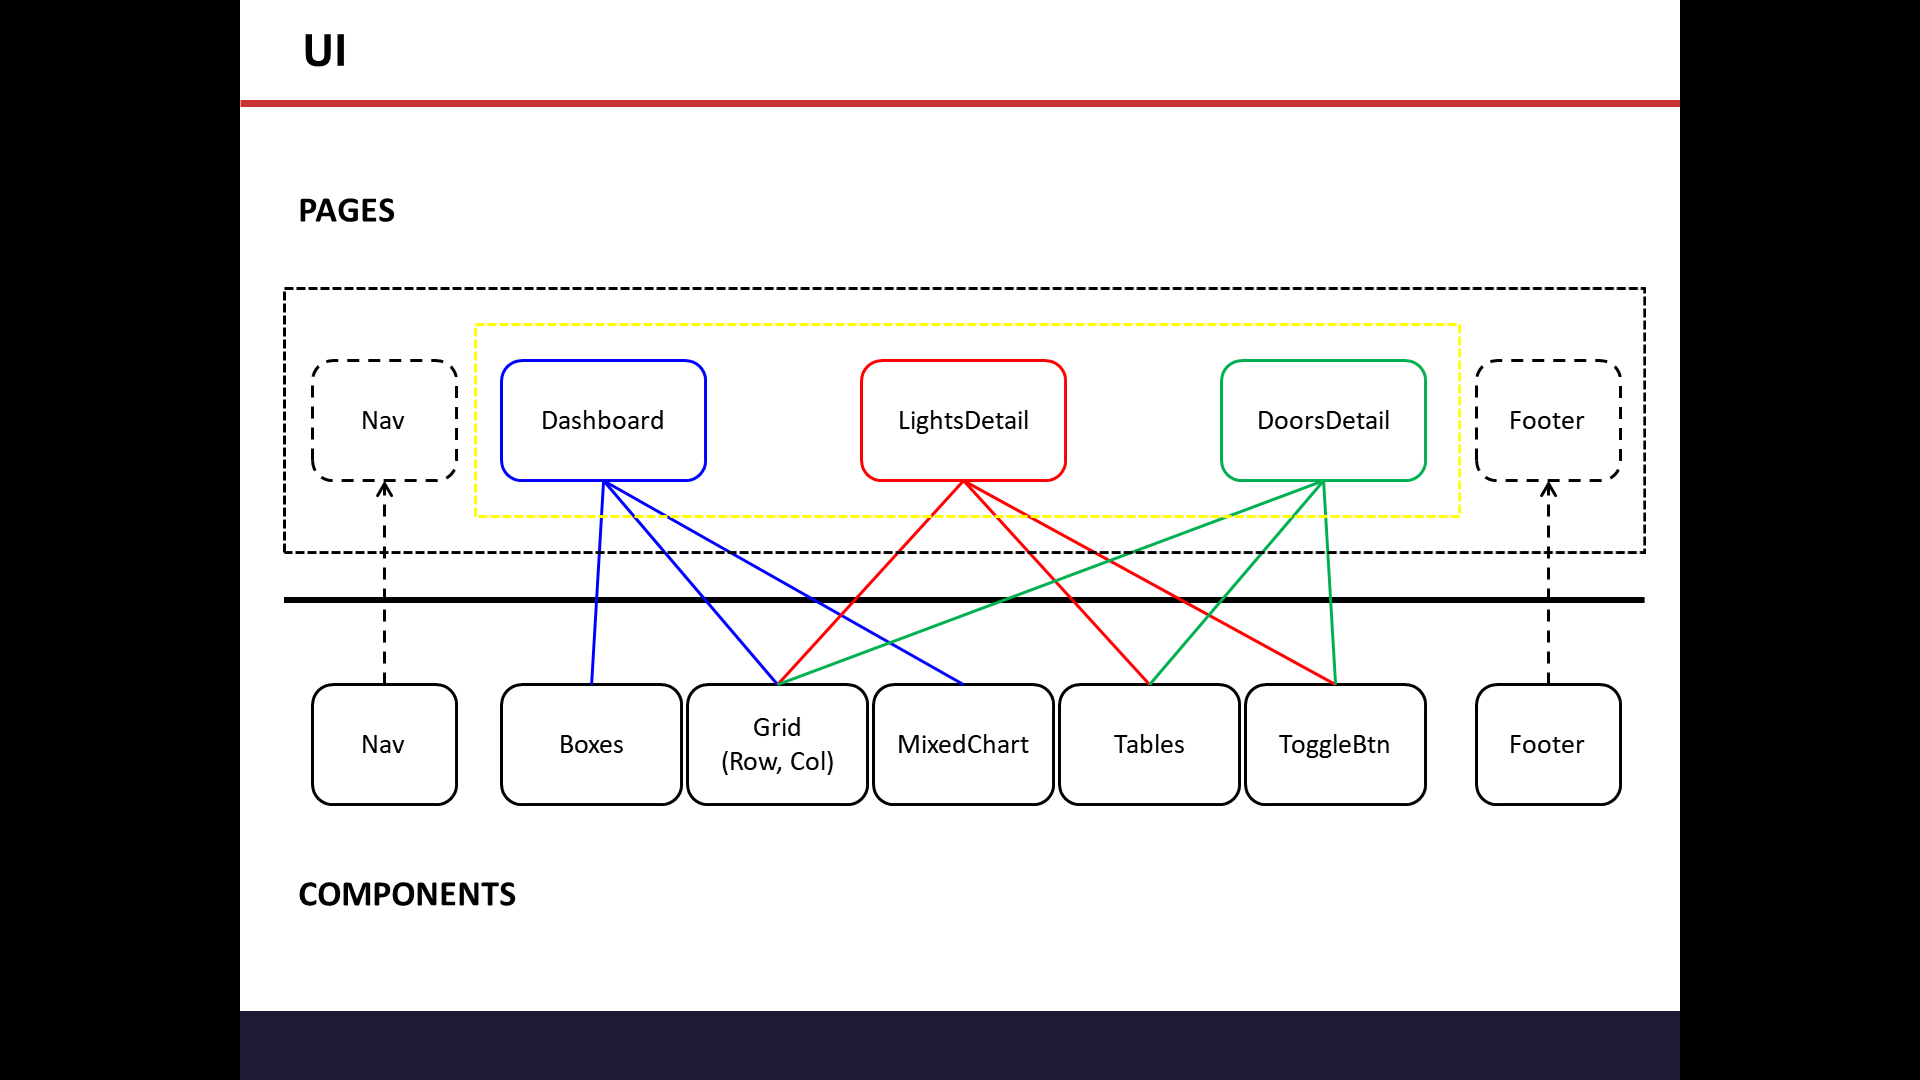
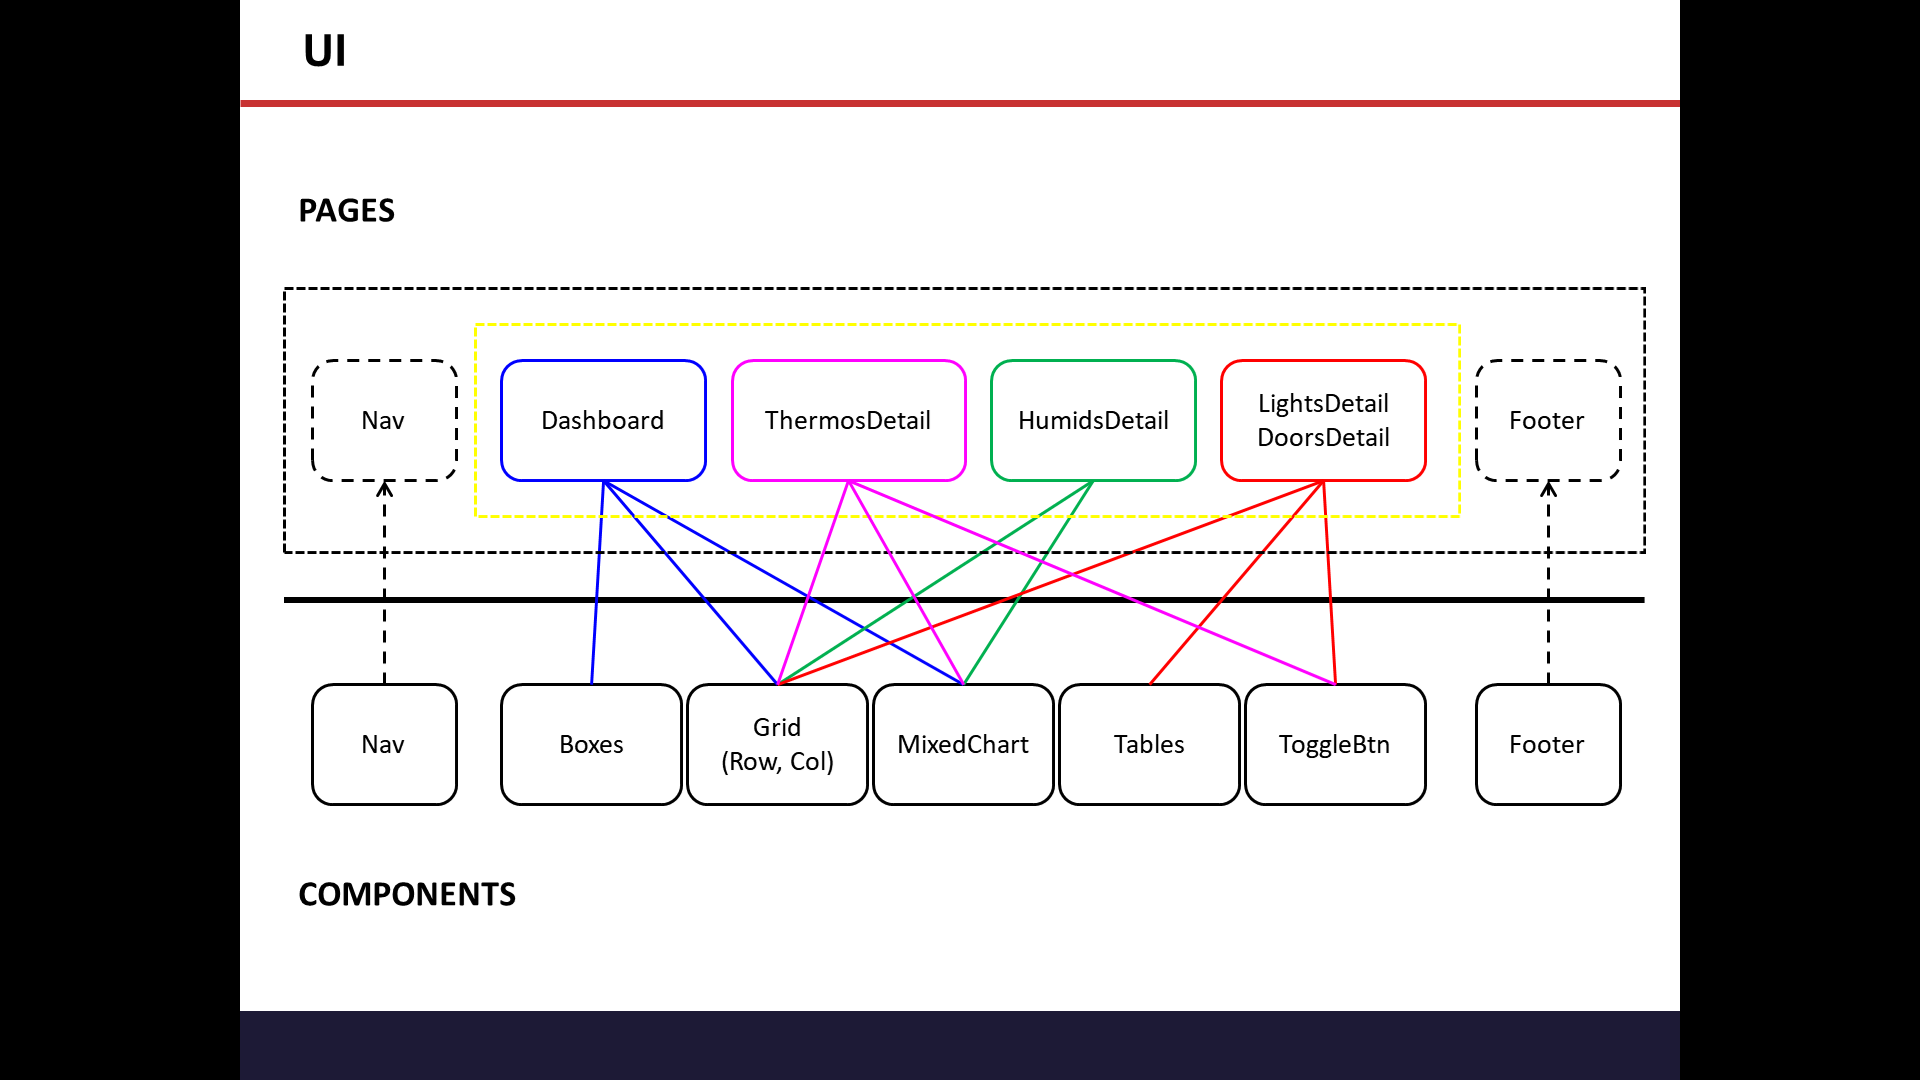
Added ThermosDetail page

diff --git a/client/src/pages/ThermosDetail/ThermosDetail.js b/client/src/pages/ThermosDetail/ThermosDetail.js
@@ -1,0 +1,165 @@
+import React, {Component} from "react";
+import { Col, Row, Container } from "../../components/Grid";
+import { LayoutBox } from "../../components/AdminLTE";
+import MixedChart from "../../components/MixedChart";
+import { Input } from "../../components/Form";
+import ToggleBtn from "../../components/ToggleBtn";
+
+class ThermosDetail extends Component {
+    constructor() {
+        super();
+
+        this.state = {
+            timerId: 0,
+            chartData: {},
+            target: 64,
+            turnOn: 0
+        }
+
+        this.data = {
+            num: 60, 
+            realtarget: this.state.target,
+            temperature: this.state.target,
+            labels: [],
+            targets: [],
+            values: []
+        }
+
+        for(let i=this.data.num-1; i>=0; i--) {
+            (i === 0) ? 
+                this.data.labels.push(`t`) : this.data.labels.push(`t-${i}s`);
+            this.data.targets.push(this.data.target);
+            this.data.values.push(this.data.temperature);
+        }
+
+        this.toggle = false;
+    }
+
+    componentWillMount(){
+        this.getChartData();
+    }
+
+    componentDidMount() {
+        let timerId = setInterval(() => {
+            this.getChartData();
+        }, 1000);
+        this.setState({ timerId: timerId });
+    }
+
+    componentWillUnmount() {
+        clearInterval(this.state.timerId);
+    }
+
+    getChartData = () => {
+        if((this.state.target > 20) && (this.state.target < 120)) {
+            this.data.realtarget = this.state.target;
+        }
+
+        this.data.targets = this.data.targets.map(item => {
+            let retData = this.data.realtarget;
+            if(this.toggle) {
+                retData = parseInt(this.data.realtarget) + 0.01;
+            }
+            else {
+                retData = parseInt(this.data.realtarget) - 0.01;
+            }
+            return retData;
+        });
+
+        if(this.toggle) {
+            this.toggle = false;
+        }
+        else {
+            this.toggle = true;
+        }
+
+        this.data.values.shift();
+        if(this.state.turnOn === 1) {
+            this.data.temperature = (0.95 * this.data.temperature) + (0.05 * this.data.realtarget);
+        }
+        this.data.values.push(this.data.temperature);
+
+        this.setState({
+            chartData: {
+                title: "Temperature (\xB0F)",
+                ratio: {x: 100, y: 40},
+                labels: this.data.labels,
+                datasets: [
+                    {
+                        label: 'Target (\xB0F)',
+                        data: this.data.targets,
+                        type: 'line',
+                        fill: false,
+                        borderColor: 'rgba(255, 99, 132, 0.8)',
+                        backgroundColor: 'rgba(255, 99, 132, 0.8)',
+                        pointBorderColor: 'rgba(255, 99, 132, 0.8)',
+                        pointBackgroundColor: 'rgba(255, 99, 132, 0.8)',
+                        pointHoverBackgroundColor: 'rgba(255, 99, 132, 0.8)',
+                        pointHoverBorderColor: 'rgba(255, 99, 132, 0.8)',
+                        yAxisID: 'y-axis-0',
+                        yAxisRange: {min:20, max:120, stepSize:25}
+                    },
+                    {
+                        label: 'Current (\xB0F)',
+                        data: this.data.values,                        
+                        type: 'line',
+                        fill: false,
+                        borderColor: 'rgba(54, 162, 235, 0.8)',
+                        backgroundColor: 'rgba(54, 162, 235, 0.8)',
+                        pointBorderColor: 'rgba(54, 162, 235, 0.8)',
+                        pointBackgroundColor: 'rgba(54, 162, 235, 0.8)',
+                        pointHoverBackgroundColor: 'rgba(54, 162, 235, 0.8)',
+                        pointHoverBorderColor: 'rgba(54, 162, 235, 0.8)',
+                        yAxisID: 'y-axis-1',
+                        yAxisRange: {min:20, max:120, stepSize:25}
+                    }
+                ]
+            }
+        });
+    }
+
+    handleInputChange = event => {
+        const { name, value } = event.target;
+        this.setState({
+            [name]: value
+        });
+    };
+
+    handleControl = (id, checked) => {
+        this.setState({ turnOn: checked ? 1 : 0});
+    }
+
+    render() {
+        return (
+            <Container>
+                <Row>
+                    <Col size="md-12">
+                        <LayoutBox title={this.state.chartData.title}>
+                            <MixedChart chartData={this.state.chartData} />
+                        </LayoutBox>
+                    </Col>
+                </Row>
+                <Row>
+                    <Col size="md-12">
+                        <LayoutBox title="Simulation (Target Temperature)">
+                            <Col size="md-3">
+                                <Input
+                                    value={this.state.target}
+                                    onChange={this.handleInputChange}
+                                    name="target"
+                                    placeholder=""
+                                />
+                            </Col>
+                            <Col size="md-3">
+                                <ToggleBtn id="AC" checked={this.state.turnOn} handleControl={this.handleControl} />
+                            </Col>
+                        </LayoutBox>
+                    </Col>
+                </Row>
+            </Container>
+        );
+    }
+}
+
+
+export default ThermosDetail;

diff --git a/client/src/pages/Dashboard/Dashboard.js b/client/src/pages/Dashboard/Dashboard.js
@@ -19,8 +19,8 @@ class Dashboard extends Component {
             onwindows: 0
         },
         weather: {},
-        usedPowerChart: { initial: true },
-        forecastChart: { initial: true },
+        usedPowerChart: {},
+        forecastChart: {},
     };
 
     componentWillMount() {
@@ -107,7 +107,6 @@ class Dashboard extends Component {
     loadUsedPower = () => {
         this.setState({
             usedPowerChart: {
-                initial: false,
                 title: "Monthly Energy Usage (kWh)",
                 labels: ['Jan', 'Feb', 'Mar', 'Apr', 'May', 'Jun', 'Jul', 'Aug', 'Sep', 'Oct', 'Nov', 'Dec'],
                 datasets: [
@@ -155,17 +154,13 @@ class Dashboard extends Component {
     }
 
     loadForecast = forecast => {
-
-
         // let labels = forecast.map(item => `${item.date} (${item.skytextday})`);
-
         let labels = forecast.map(item => `${item.date}`);
         let highs = forecast.map(item => item.high);
         let lows = forecast.map(item => item.low);
 
         this.setState({
             forecastChart: {
-                initial: false,
                 title: "Weather Forecast",
                 labels: labels,
                 datasets: [
@@ -267,3 +262,4 @@ class Dashboard extends Component {
 }
 
 export default Dashboard;
+

diff --git a/client/src/App.js b/client/src/App.js
@@ -1,4 +1,4 @@
-import React, { Component } from "react";
+import React from "react";
 import { BrowserRouter as Router, Route, Switch } from "react-router-dom";
 import Dashboard from "./pages/Dashboard";
 import LightsDetail from "./pages/LightsDetail";
@@ -8,10 +8,7 @@ import Carousel from "./pages/Carousel";
 import NoMatch from "./pages/NoMatch";
 import Nav from "./components/Nav";
 import HumidsDetail from "./pages/HumidsDetail";
-
-
-
-
+import ThermosDetail from "./pages/ThermosDetail";
 import Footer from "./components/Footer";
 
 const App = () => {
@@ -34,6 +31,7 @@ const App = () => {
                         <Route exact path="/doors-ex" component={DoorsDetailEx} />
                         <Route exact path="/about" component={Carousel} />
                         <Route exact path="/humids" component={HumidsDetail} />
+                        <Route exact path="/thermos" component={ThermosDetail} />
                         <Route component={NoMatch} />
                     </Switch>
                 </div>

diff --git a/client/src/components/MixedChart/MixedChart.js b/client/src/components/MixedChart/MixedChart.js
@@ -18,8 +18,8 @@ class MixedChart extends Component {
             <div className="chart">
                 <Bar
                     data={this.props.chartData}
-                    width={100}
-                    height={30}
+                    width={!this.props.chartData.ratio ? 100 : this.props.chartData.ratio.x}
+                    height={!this.props.chartData.ratio ? 30 : this.props.chartData.ratio.y}
                     options={{
                         maintainAspectRatio: false, 
                         // title: { display:this.props.displayTitle, text:this.props.chartData.title, fontSize:18, fontColor: '#000'},
@@ -32,7 +32,6 @@ class MixedChart extends Component {
                             ]
                         }
                     }}
-                    // redraw={true}
                 />
             </div>
         );

diff --git a/client/src/components/HumidsChart/HumidChart.js b/client/src/components/HumidsChart/HumidChart.js
@@ -21,8 +21,8 @@ class HumidChart extends Component {
       <div className="chart">
         <Bar
           data={this.state.chartData}
-          width={5}
-          height={2}
+          width={6}
+          height={3}
           options={{maintainAspectRatio: false,
             title:{   display:this.props.displayTitle,   text:'Weekly Humidity (%)', fontSize:30
           },

diff --git a/client/src/pages/HumidsDetail/HumidsDetail.js b/client/src/pages/HumidsDetail/HumidsDetail.js
@@ -57,9 +57,13 @@ class HumidsDetail extends Component {
   }
   render() {
     return (
-      <div>
-        <HumidChart chartData={this.state.chartData} />
-      </div>
+      <Container>
+        <Row>
+          <Col size="md-12">
+            <HumidChart chartData={this.state.chartData} />
+          </Col>
+        </Row>
+      </Container>
     );
   }
 }

diff --git a/client/src/pages/ThermosDetail/index.js b/client/src/pages/ThermosDetail/index.js
@@ -1,0 +1,1 @@
+export { default } from "./ThermosDetail";
